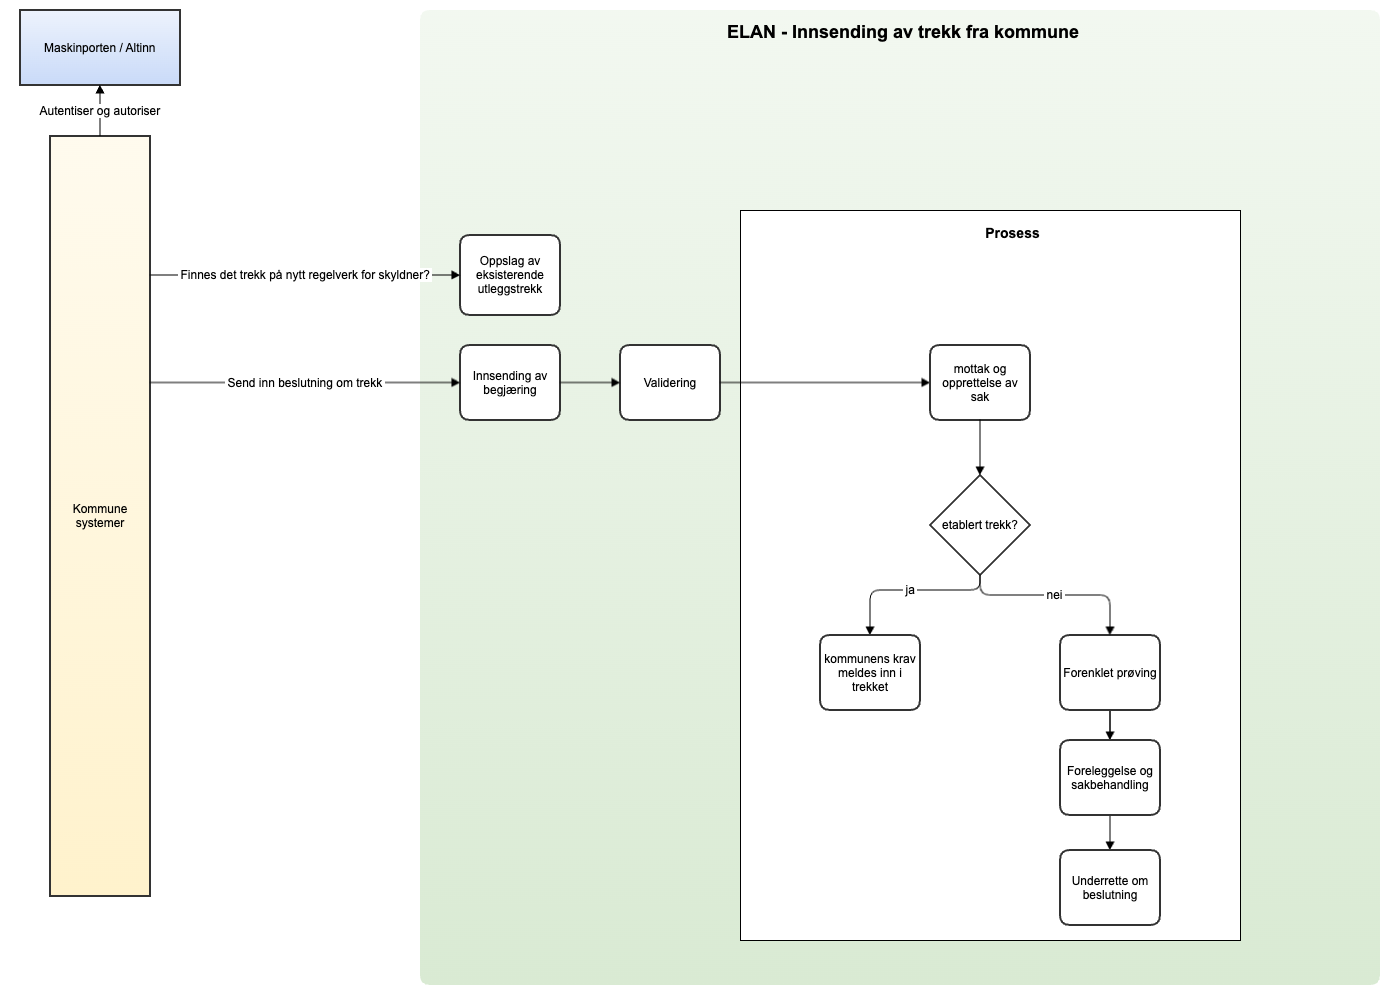
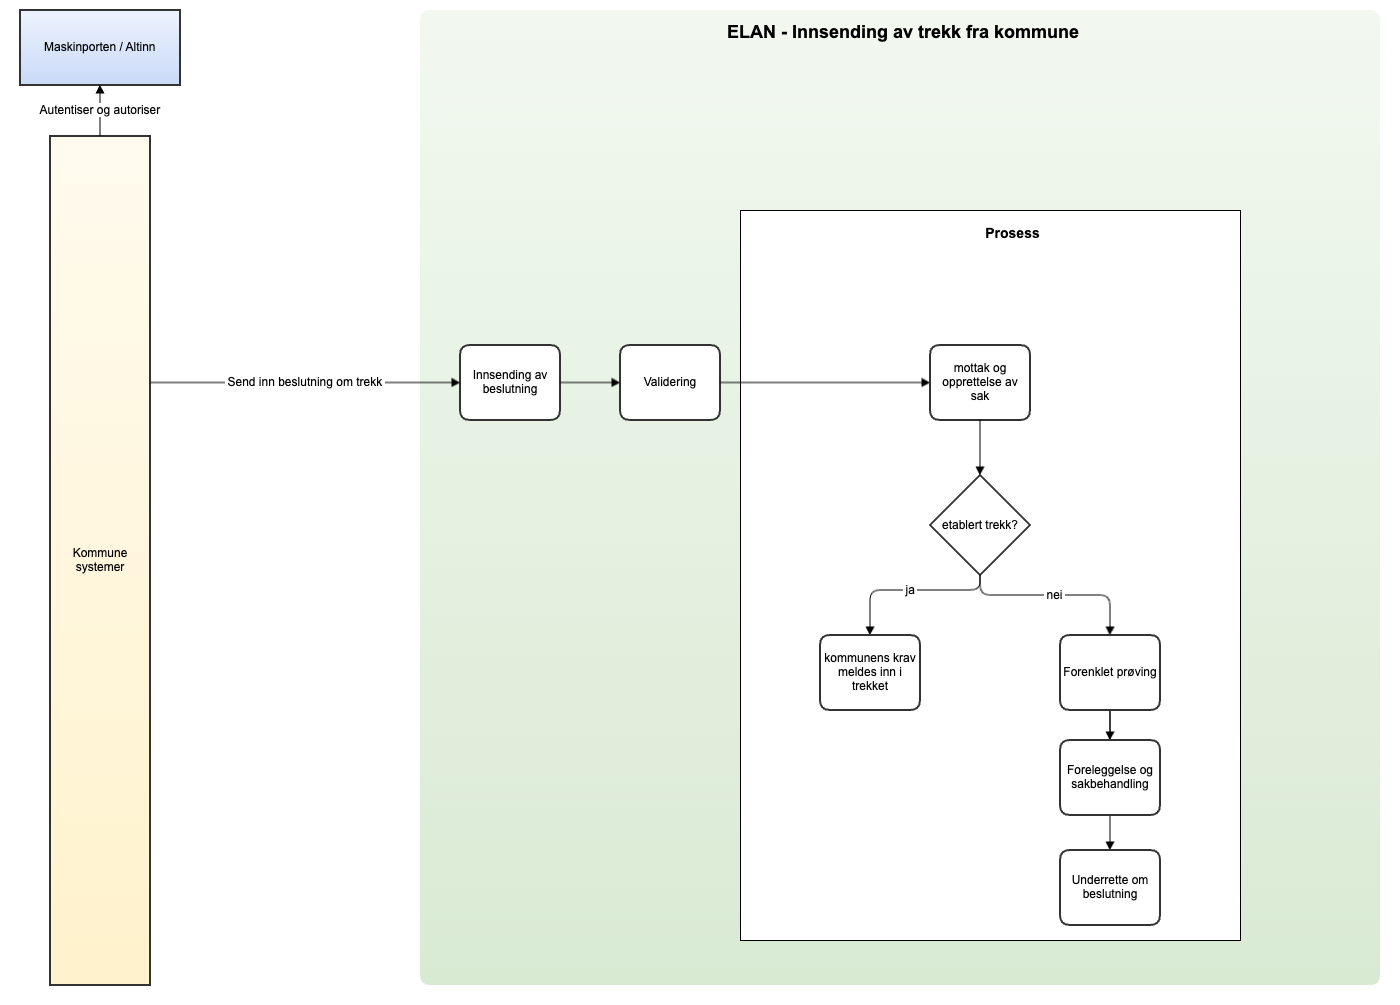
FIUT-9233: Siste oppdateringer etter kontrollpunkt

diff --git a/docs/api/utleggstrekk-fra-kommune.md b/docs/api/utleggstrekk-fra-kommune.md
@@ -1,5 +1,5 @@
 ---
-title: ELAN - Utleggstrekk fra kommune API
+title: ELAN - API mot kommunene
 slug: /api/utleggstrekk-fra-kommune
 folder: api
 sidebar: mydoc_sidebar
@@ -10,16 +10,21 @@ last_updated: Sept 29, 2025
 hide_table_of_contents: true
 ---
 
-<Summary>En tjeneste for å sende inn utleggstrekk fra kommune gjennom Skatteetatens systemløsninger.</Summary>
+<Summary>Tjenester for å kommuner for å støtte behandling av utlegg mot nytt regelverk. 
+Dette består av en tjeneste for å gjøre oppslag på hvilket regelverk en skyldner skal behandles etter, samt en tjeneste for å sende inn utleggstrekk fra kommune gjennom Skatteetatens systemløsninger.</Summary>
 
 <Tabs underline={true}>
 <TabItem headerText="Om tjenesten" itemKey="itemKey-Om" default>
 Målgruppen for tjenesten er kommunene.
 Dersom du ønsker å ta i bruk ELAN og prøving i ditt system eller har spørsmål knyttet til dette, ta kontakt med fremtidensinnkreving@skatteetaten.no.
 
-Figuren nedenfor angir overordnet tjenester Skatteetaten vil tilby for håndtering av utleggstrekk fra kommune. Merk at figuren er en illustrasjon av måbildet, og det er ikke alle tjenestene i figuren som er implementert ennå. Det vil også i fremtiden kunne legges til nye tjenester som ikke er angitt i figuren.
+Figuren nedenfor viser overordnet flyt for oppslag for å finne ut om en skyldner skal behandles etter nytt eller gammelt regelverk.
 
-![Oversiktsfigur](../../static/download/utleggstrekk-fra-kommune/kommune-som-særnamsmyndighet.png)
+![Oversiktsfigur1](../../static/download/utleggstrekk-fra-kommune/oppslag-av-samordnet-trekk.png)
+
+Figuren nedenfor angir overordnet tjenesten Skatteetaten vil tilby for håndtering av utleggstrekk fra kommune. Merk at figuren er en illustrasjon av måbildet, og det er ikke alle tjenestene i figuren som er implementert ennå. Det vil også i fremtiden kunne legges til nye tjenester som ikke er angitt i figuren.
+
+![Oversiktsfigur2](../../static/download/utleggstrekk-fra-kommune/kommune-som-særnamsmyndighet.png)
 
 
 For generell informasjon om tjenestene se egne sider om:
@@ -40,7 +45,7 @@ I mellomtiden – ta kontakt med fremtidensinnkreving@skatteetaten.no.
 
 ## Scope
 
-Foreløbig brues følgende scope ved autentisering i Maskinporten: `skatteetaten:utleggsbegjaering`.
+Foreløbig brukes følgende scope ved autentisering i Maskinporten: `skatteetaten:utleggsbegjaering`.
 
 
 Ved bruk av systembruker må forespørselen også inneholde ressurs-id `ske-utleggsbegjaering` som beskrevet her for produksjon: https://docs.altinn.studio/api/authentication/systemuserapi/systemuserrequest/external/#create-a-standard-system-user-request
@@ -68,17 +73,17 @@ For informasjon om hvordan få tilgang til tjenesten se [Inforrmasjon om tilgang
 <TabItem headerText="Overgangsperioden" itemKey="itemKey-Overgangsperioden">
 
 ## Innføring av ny innkrevingslov
-I en overgangsperiode (fra 1.1.2026 til 31.12.2026) skal kommunene gradvis behandle nye utleggssaker mot saksøkte etter den nye innkrevingsloven og endringer i tvangsfullbyrdelsesloven. Myndighetene har derfor mulighet til å avgrense hvilke skyldnere som skal behandles etter nytt regelverk for utlegg ut fra forhåndsbestemte kriterier. Disse bestemmes konkret i forskrift.
+I en overgangsperiode (fra 1.1.2026 til 31.12.2026) skal kommunene gradvis behandle nye utleggssaker mot saksøkte etter nye regler i tvangsfullbyrdelsesloven kapittel 2 avsnitt II. Myndighetene har derfor mulighet til å avgrense hvilke skyldnere som skal behandles etter nytt regelverk for utlegg ut fra forhåndsbestemte kriterier. Disse bestemmes konkret i forskrift.
 
 Gjennom overgangsperioden legges det opp til en gradvis endring av parametrene slik at stadig flere skyldnere vil falle inn under kriterier for å bli behandlet etter nytt regelverk. Forskriften endres senest 14 dager før endringen trer i kraft. Parametrene er fastsatt i delegeringsvedtaket [Delegering av kongens myndighet etter innkrevingsloven § 40 andre og tredje ledd til Finansdepartementet](https://lovdata.no/dokument/DEL/forskrift/2025-06-10-968).
 
-## Overgangsperiode for besluttede trekk fra kommune
+## Når kommer det nye regelverket til anvendelse for kommunen som namsmyndighet
 I overgangsperioden skal kommunen forholde seg til et API fra utlegg som forteller om en skyldner har eller har hatt trekk etter nytt regelverk.
-Dersom skyldner har eller har hatt trekk etter nytt regelverk skal beslutning om utleggstrekk sendes inn til ny løsning og kommunekravet vil da tre inn i det eksisterende trekket. 
+Dersom skyldner har eller har hatt trekk etter nytt regelverk skal kommunen behandle saken etter nytt regelverk.
+Dersom skyldner skal behandles etter nytt regelverk og kommunen beslutter utleggstrekk, skal kommunen sende beslutningen om utleggstrekk til alminnelig namsmann i ny løsning.
+Dersom det allerede løper utleggstrekk mot skyldneren, meldes kravet umiddelbart inn i trekket. Dersom det ikke allerede løper utleggstrekk mot skyldneren, vil namsmannen forsøke å etablere utleggstrekk mot vedkommende.
 
-Etter 1.1.2027 vil gjelder ny ordning for alle utleggstrekk som besluttes og kommunen må da sende alle beslutninger om utleggstrekk til ny løsning.
-
-Merk at Betjeningskartet som for innsending av Utleggsbegjæringer skal benyttes for å undersøke hvorvidt skyldner er på nytt regelverk, ikke skal benyttes for beslutning av trekk fra kommune. I stedet skal tjeneste for hvorvidt skyldner har eller har hatt trekk etter nytt regelverk benyttes. 
+Etter 1.1.2027 skal kommunen behandle alle skyldnere etter nytt regelverk
 
 </TabItem>
 <TabItem headerText="Informasjonsmodell" itemKey="itemKey-Informasjonsmodell">
@@ -102,7 +107,7 @@ Videre har man entiteten «Krav» som er kjerneinformasjon med detaljer om «pen
 I «BegjæringensTvangsgrunnlag» skal man legge inn detaljer om grunnlaget for Kravene i det besluttede trekket fra kommune.
 
 ### a) Rotnivå - Beslutning om trekk fra kommune
-RotEntiteten Beslutning om trekk fra kommune inneholder kjernerneinformasjon om innsendingen, som generelle vedlegg, underskrift med navn på ansvarlig for innsendingen.
+Rot entiteten "Beslutning om trekk fra kommune" inneholder kjernerneinformasjon om innsendingen, som generelle vedlegg, underskrift med navn på ansvarlig for innsendingen.
 
 innsenderReferanse er innsenders unike referanse på saken, tilsvarende vil saksreferanse være namsmyndighetens unike identifikator for saken og som skal benyttes senere i prosessen ved kommunikasjon ved namsmyndigheten.
 
@@ -110,7 +115,7 @@ innsenderReferanse er innsenders unike referanse på saken, tilsvarende vil saks
 
 ### b) Parter i besluttet trekk fra kommune
 
-Saksøker er den som erklærer at noen er skyldig penger. Saksøker er i dette tilfelle en eller flere kommuner. En kommune kan også ha en innsender som kan være knyttet til en saksbehandler.
+Saksøker er den som erklærer at noen er skyldig penger. Saksøker er i dette tilfelle en kommune. En kommune kan også ha en innsender som kan være knyttet til en saksbehandler.
 
 Saksøkt er den man krever penger fra. OBS! Det er påkrevd med norsk identifikator for saksøkt.
 
@@ -126,7 +131,7 @@ Saksøkt er den man krever penger fra. OBS! Det er påkrevd med norsk identifika
 
 I beslutningen har vi 2 såkalte entiteter med generell informasjon som dekker hele beslutningen om trekk, dette er
 * Betalingsinformasjon - Informasjon om hvor, hvordan og til hvem innbetalingen skal gjøres.
-* ValgtNamsmannsdistrikt -skal kun benyttes om man ønsker trekk behandlet av annet namsmannsdistrikt, enn saksøktes alminnelige verneting. Merk at namsmannsdistrikt må være skrevet nøyaktig som i kodelisten.
+* ValgtNamsmannsdistrikt -Benyttes kun dersom man ønsker å fremme beslutningen for en bestemt namsmann. Har relevans der flere namsmenn er kompetente til å etablere trekk mot skyldneren og kommunen har et bestemt ønske om hvilken namsmann de ønsker å fremsette beslutningen for. Der valgmuligheten ikke benyttes vil systemløsningen formidle saken til en alminnelig namsmann som er kompetent til å etablere utleggstrekk.
 
 ![Generelle elementer-1](../../static/download/utleggstrekk-fra-kommune/utleggstrekk-fra-kommune-c1.png)
 ![Generelle elementer-2](../../static/download/utleggstrekk-fra-kommune/utleggstrekk-fra-kommune-c2.png)
@@ -139,7 +144,6 @@ I beslutningen har vi 2 såkalte entiteter med generell informasjon som dekker h
 ### d) Kravinformasjon
 
 Krav har ulike typer, kalt «kravdetaljer». Eksempler på kravdetaljer er "Hovedkrav" som er det opprinnelige beløpet en person er skyldig, og "Rentekrav" som omfatter renter som er påløpt etter at kravet oppstod.
-Se kodeliste for alle gyldige verdier [kravdetaljerUtleggsbegjaering](https://data.skatteetaten.no/web/datakatalog/kodeliste/837f1cf5-0568-4029-b4fe-64d2f71ff2d8).
 En opprinnelig faktura kan være et eksempel på et "Hovedkrav". Har man f. eks to fakturaer med ulikt forfall («kravforfall»), er dette å anse som to krav.
 
 «InnsendersKravreferanse» har flere formål, det ene er å unikt identifisere et krav innenfor et besluttet trekk fra kommune, det andre er å kunne relatere såkalte «tilleggskrav» som for eksempel «Sakskostnader» eller «Rentekrav». På samme måte kan man relatere «Rentekrav» til «Sakskostnader». I praksis fyller man ut «relatertKrav» med opphavets «InnsendersKravreferanse».
@@ -178,15 +182,22 @@ Dette for å kunne gradivis innføre flere skyldnere på nytt regelverk gjennom 
 ### Oppslag av samordnet trekk request
 Oppslag av samordnet trekk skjer ved å angi parten man ønsker å gjøre oppslag på
 
+![Oppslag samordnet_trekk request-1](../../static/download/utleggstrekk-fra-kommune/oppslag-samordnet-trekk-a1.png)
+![Oppslag samordnet_trekk request-2](../../static/download/utleggstrekk-fra-kommune/oppslag-samordnet-trekk-a2.png)
+
+
 ### Oppslag av samordnet trekk response
 Som respons vil man få parten man gjorde oppslag på samt en boolsk verdi som er true dersom parten har eller har hatt trekk på nytt regelverk.
 
+![Oppslag samordnet_trekk_response-1](../../static/download/utleggstrekk-fra-kommune/oppslag-samordnet-trekk-b1.png)
+![Oppslag samordnet_trekk_response-2](../../static/download/utleggstrekk-fra-kommune/oppslag-samordnet-trekk-b2.png)
+
 ### Eksempler på testdata
 Eksempelet nedenfor bruker testparter fra Tenor. De syntetiske dataene i dokumentet byttes ut med deres egne syntetiske data.
+
 [oppslag-samordnet-trekk-kommune.json](../../static/download/utleggstrekk-fra-kommune/oppslag-samordnet-trekk-kommune.json)
      </p>
 </details>
-## Forklaring til modellen
 
 </TabItem>
 <TabItem headerText="Test" itemKey="itemKey-Test">
